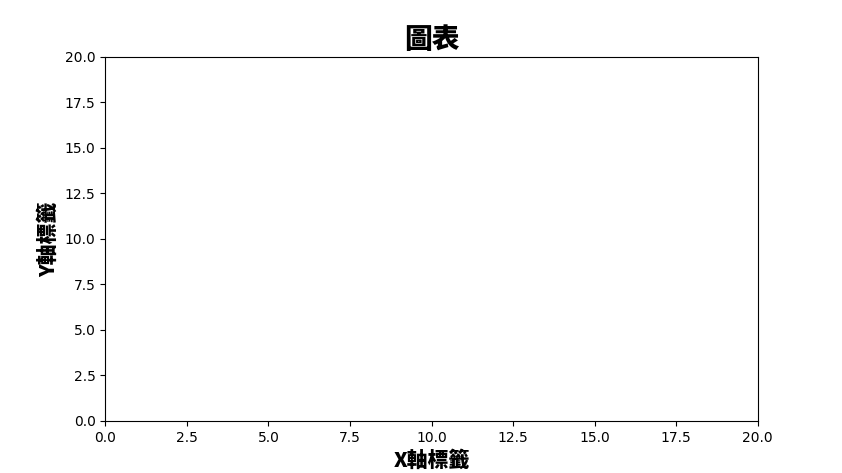
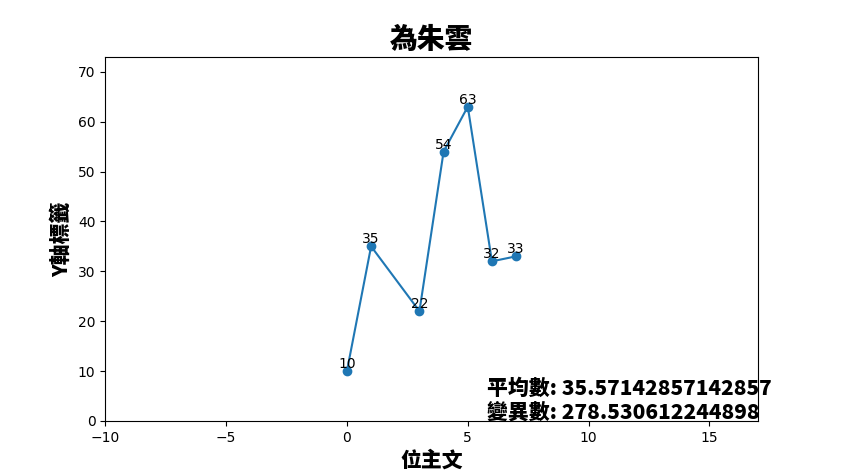
ChartGenerator 1.0

diff --git a/main.py b/main.py
@@ -1,5 +1,5 @@
 from PyQt6 import QtWidgets
-from chart_creater import create_chart
+from chart_creater import create_chart, load_excel_to_data, analyze_data
 from matplotlib.backends.backend_qt5agg import FigureCanvasQTAgg as FigureCanvas
 import sys
 import os
@@ -12,6 +12,11 @@ class MainWindows(QtWidgets.QMainWindow):
     def __init__(self):
         super().__init__()
         self.setWindowTitle('Chart Generator')
+        info =  analyze_data(load_excel_to_data('data.xlsx'))
+        self.x_min = info[2]
+        self.x_max = info[3]
+        self.y_min = info[4]
+        self.y_max = info[5]
         self.ui()
         self.update_chart() # 初始化圖表
 
@@ -105,7 +110,7 @@ class MainWindows(QtWidgets.QMainWindow):
         self.range_xmin = QtWidgets.QLineEdit(self)
         self.range_xmin.setGeometry(1100, start+5*r, 50, 30)
         self.range_xmin.setStyleSheet('font-size:20px')
-        self.range_xmin.setText('0')
+        self.range_xmin.setText(str(self.x_min-10))
         rlabel1 = QtWidgets.QLabel(self)
         rlabel1.setText('~')
         rlabel1.setGeometry(1160, start+5*r, 50, 30)
@@ -113,7 +118,7 @@ class MainWindows(QtWidgets.QMainWindow):
         self.range_xmax = QtWidgets.QLineEdit(self)
         self.range_xmax.setGeometry(1190, start+5*r, 50, 30)
         self.range_xmax.setStyleSheet('font-size:20px')
-        self.range_xmax.setText('20')
+        self.range_xmax.setText(str(self.x_max+10))
 
         yrange_label = QtWidgets.QLabel(self)
         yrange_label.setText('Y軸:')
@@ -122,7 +127,7 @@ class MainWindows(QtWidgets.QMainWindow):
         self.range_ymin = QtWidgets.QLineEdit(self)
         self.range_ymin.setGeometry(1100, 450, 50, 30)
         self.range_ymin.setStyleSheet('font-size:20px')
-        self.range_ymin.setText('0')
+        self.range_ymin.setText(str(self.y_min-10))
         rlabel2 = QtWidgets.QLabel(self)
         rlabel2.setText('~')
         rlabel2.setGeometry(1160, 450, 50, 30)
@@ -130,7 +135,7 @@ class MainWindows(QtWidgets.QMainWindow):
         self.range_ymax = QtWidgets.QLineEdit(self)
         self.range_ymax.setGeometry(1190, 450, 50, 30)
         self.range_ymax.setStyleSheet('font-size:20px')
-        self.range_ymax.setText('20')
+        self.range_ymax.setText(str(self.y_max+10))
 
         # 數據顯示勾選
         self.data_display = QtWidgets.QCheckBox(self)

diff --git a/chart_creater.py b/chart_creater.py
@@ -9,7 +9,6 @@ def load_excel_to_data(filename) -> list:
     data = [[]for _ in range(ws.max_row)]
     x_list = []
     y_list = []
-    info = []
     result = []
 
     for i in range(1, ws.max_row+1):
@@ -22,19 +21,29 @@ def load_excel_to_data(filename) -> list:
     
     result.append(x_list)
     result.append(y_list)
-    result.append(info)
-
-	# 數據計算
-    average = sum(y_list)/len(y_list)
-    deviation = 0
-    for i in y_list:
-        deviation += pow(i - average, 2)
-    deviation /= len(y_list)
-    info.append(average)
-    info.append(deviation)
 
     return result # result[0]為x座標 result[1]為y座標 
-	              # result[2][0]為y座標平均數 result[2][1]為變異數
+
+def analyze_data(data: list) -> list:
+    # 數據計算
+    info = []
+    average = sum(data[1])/len(data[1])
+    deviation = 0
+    for i in data[1]:
+        deviation += pow(i - average, 2)
+    deviation /= len(data[1])
+    info.append(average)
+    info.append(deviation)
+    x_max = max(data[0])
+    x_min = min(data[0])
+    y_max = max(data[1])
+    y_min = min(data[1])
+    info.append(x_min)
+    info.append(x_max)
+    info.append(y_min)
+    info.append(y_max)
+    return info # info[0]為平均數 info[1]為變異數 info[2]為x最小值 info[3]為x最大值 info[4]為y最小值 info[5]為y最大值
+
 
 def create_chart(filename: str, title: str, x_label: str,
                   y_label: str, chart_type: str,
@@ -70,6 +79,7 @@ def create_chart(filename: str, title: str, x_label: str,
     if data_display:
         for a, b in zip(data[0], data[1]):
             ax.text(a, b, b, ha='center', va='bottom', fontsize=10)
+    info = analyze_data(data)
     # 平均數、離均差顯示
-#    ax.text(5.8, 0.5, f"平均數: {data[2][0]}\n變異數: {data[2][1]}", fontdict={'fontproperties': font1, 'fontsize': 15})
+    ax.text(5.8, 0.5, f"平均數: {info[0]}\n變異數: {info[1]}", fontdict={'fontproperties': font1, 'fontsize': 15})
     return fig
